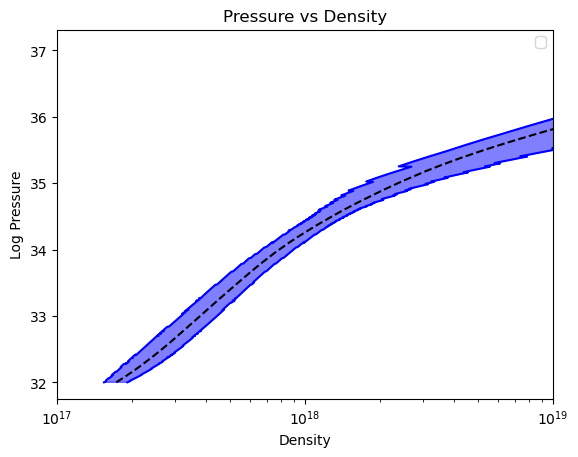
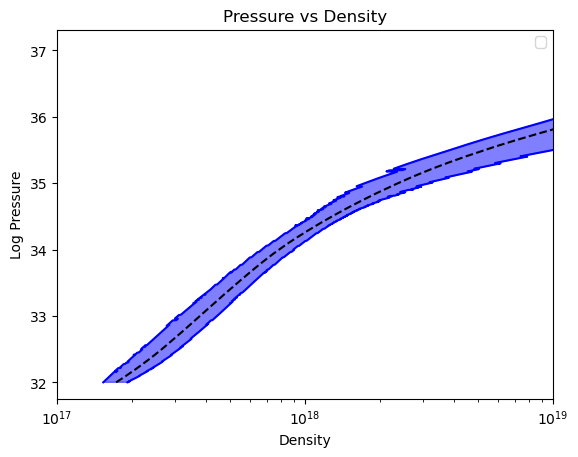
Redid p_rho computation for prior reweighting run with larger burnin.

diff --git a/GWXtreme_merger/LIGO_presentation/sample_sampler.py b/GWXtreme_merger/LIGO_presentation/sample_sampler.py
@@ -20,7 +20,7 @@ class sample_samples:
         self.samples = np.loadtxt(spectral_file)
         self.N = N
 
-    def run_MCMC(self, outputfile, burnin=100):
+    def run_MCMC(self, outputfile, burnin=10000):
     # Metropolis algorithm, slightly different
         
         old_sample = self.samples[0]
